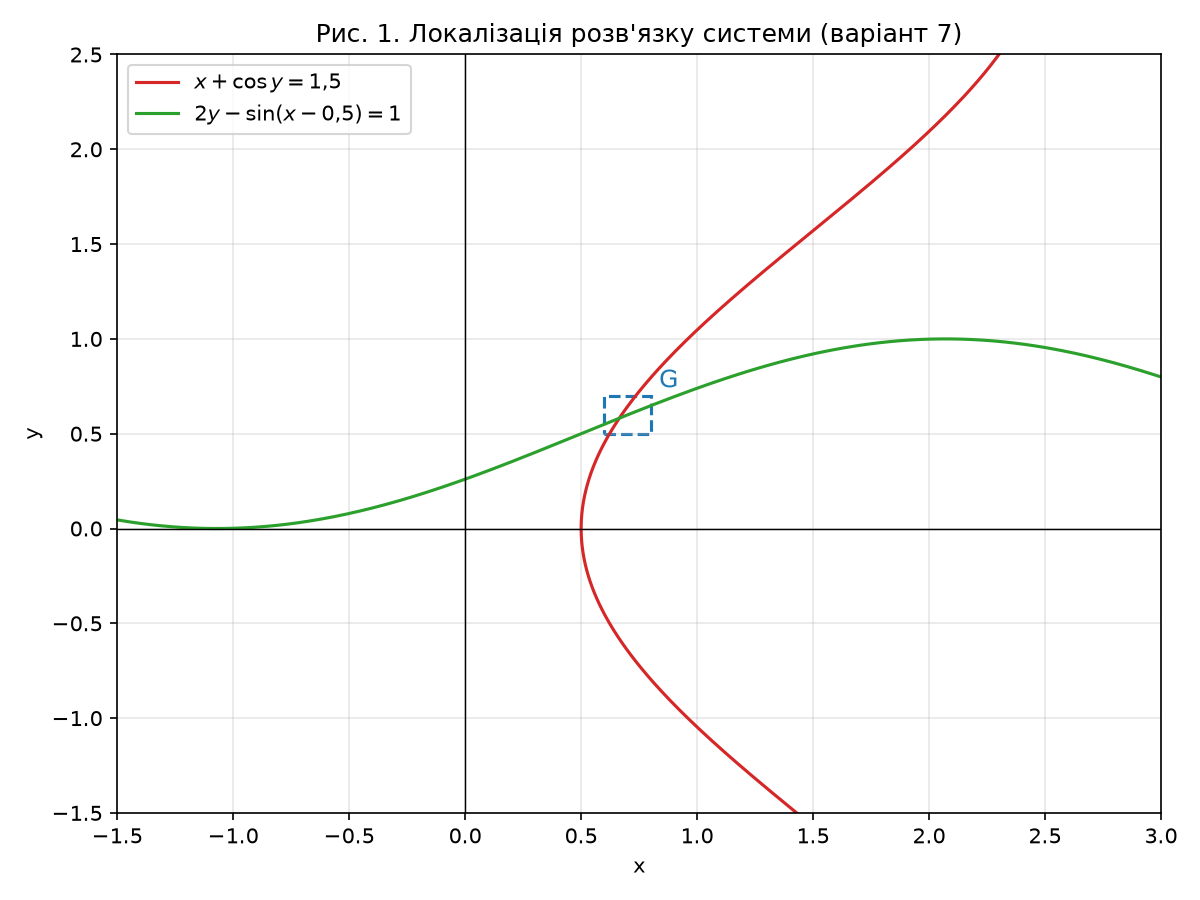
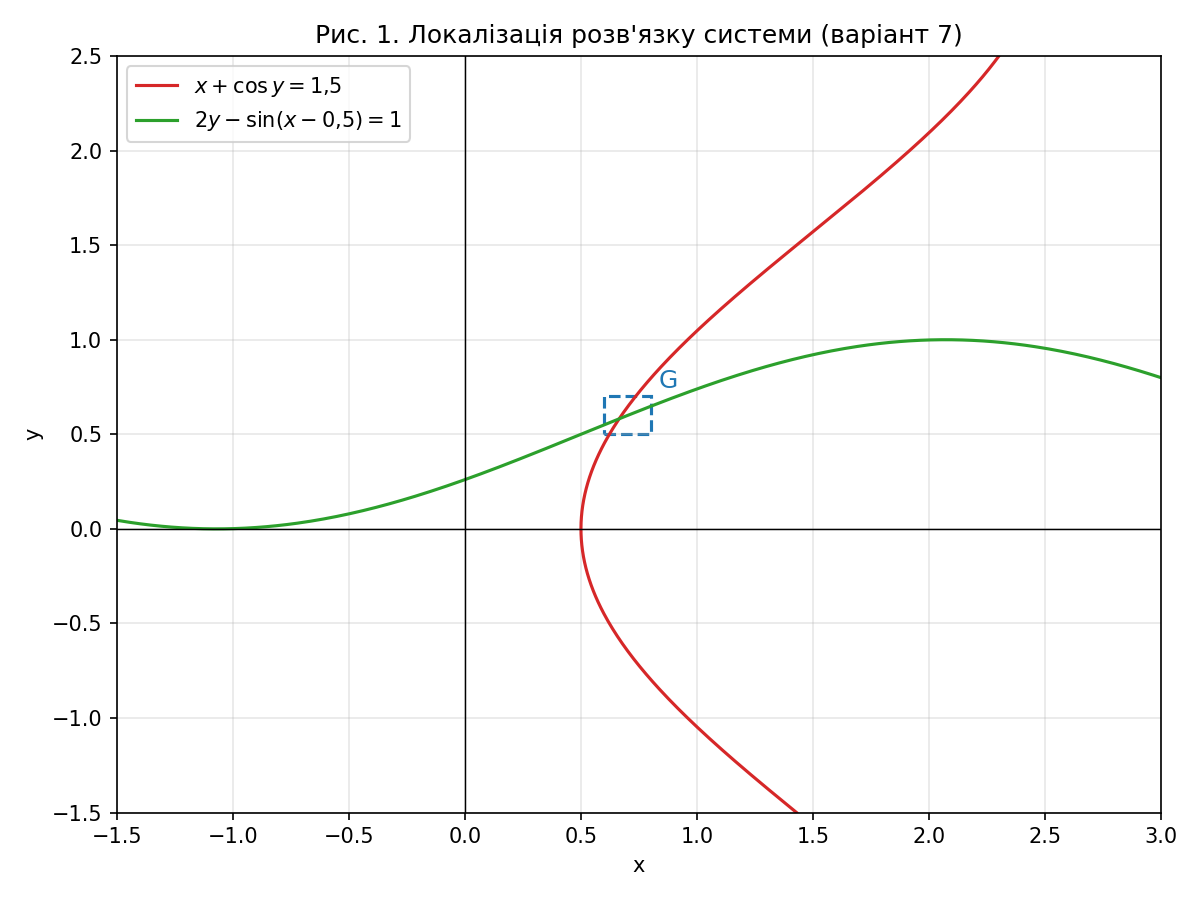
zeidel

diff --git a/src/seidel.py b/src/seidel.py
@@ -2,18 +2,76 @@
 Метод Зейделя для системи нелінійних рівнянь.
 
 Відповідальний: Тарас
-Статус: TODO
-
-Що потрібно зробити:
-  Функція solve(x0, threshold) -> (x, y, records)
-
-  1. Використати той самий ітераційний вигляд x = Φ(x), що і в МПІ.
-  2. Відмінність від МПІ: для другої координати одразу брати НОВЕ x1(k):
-       x1(k) = φ1(x1(k-1), x2(k-1))
-       x2(k) = φ2(x1(k),   x2(k-1))
-  3. Умова зупинки та сама, що в МПІ (поріг з localization.py).
-  4. Зберігати кожну ітерацію в records для таблиці.
-  5. Якщо перевищено MAX_ITER — повідомити, що метод не збігся.
-
-Для звіту: розписати першу ітерацію вручну і порівняти швидкість з МПІ.
 """
+
+import math
+
+if __name__ == "__main__" and not __package__:
+    import sys
+    from pathlib import Path
+
+    sys.path.insert(0, str(Path(__file__).resolve().parent.parent))
+
+from src.common import MAX_ITER, make_record, phi1, phi2
+
+
+def solve(x0, threshold, max_iter=MAX_ITER):
+    """Повертає (x, y, records) для заданого початкового наближення.
+
+    threshold — додатний поріг для max(|dx|, |dy|).
+    records містить початковий рядок k=0 та всі виконані ітерації
+    з полями k, x, y, dx, dy, delta.
+    Якщо збіжності не досягнуто за max_iter кроків, піднімає RuntimeError.
+    """
+    x, y = float(x0[0]), float(x0[1])
+    if not math.isfinite(x) or not math.isfinite(y):
+        raise ValueError("Початкове наближення має містити скінченні числа")
+    if not math.isfinite(threshold) or threshold <= 0:
+        raise ValueError("Поріг зупинки має бути додатним скінченним числом")
+    if isinstance(max_iter, bool) or not isinstance(max_iter, int) or max_iter <= 0:
+        raise ValueError("Кількість ітерацій має бути додатним цілим числом")
+
+    records = [make_record(0, x, y)]
+
+    for k in range(1, max_iter + 1):
+        x_new = phi1(x, y)
+        y_new = phi2(x_new, y)
+        if not math.isfinite(x_new) or not math.isfinite(y_new):
+            raise RuntimeError(f"Метод Зейделя: нескінченне або невизначене значення на ітерації {k}")
+
+        record = make_record(k, x_new, y_new, x, y)
+        records.append(record)
+        x, y = x_new, y_new
+        if record["delta"] <= threshold:
+            return x, y, records
+
+    raise RuntimeError(f"Метод Зейделя не зійшовся за {max_iter} ітерацій")
+
+
+def run_report():
+    from src.common import EPS, X0, print_table, verify
+    from src.localization import estimate_q_analytic, stop_threshold
+    from src.simple_iteration import solve as solve_mpi
+
+    q = estimate_q_analytic()[2]
+    if not 0 <= q < 1:
+        raise ValueError("Для цього порогу зупинки потрібна умова 0 <= q < 1")
+    threshold = stop_threshold(q, EPS)
+    x, y, records = solve(X0, threshold)
+    x_mpi, y_mpi, records_mpi = solve_mpi(X0, threshold, max_iter=MAX_ITER)
+    for name, result_x, result_y, history in (
+        ("Зейдель", x, y, records),
+    ):
+        residual = max(abs(value) for value in verify(result_x, result_y))
+        print(f"{name:<12} | {len(history) - 1:>8} | {result_x:>12.9f} | "
+              f"{result_y:>12.9f} | {residual:>15.3e}")
+
+
+
+
+if __name__ == "__main__":
+    import sys
+
+    if hasattr(sys.stdout, "reconfigure"):
+        sys.stdout.reconfigure(encoding="utf-8")
+    run_report()
